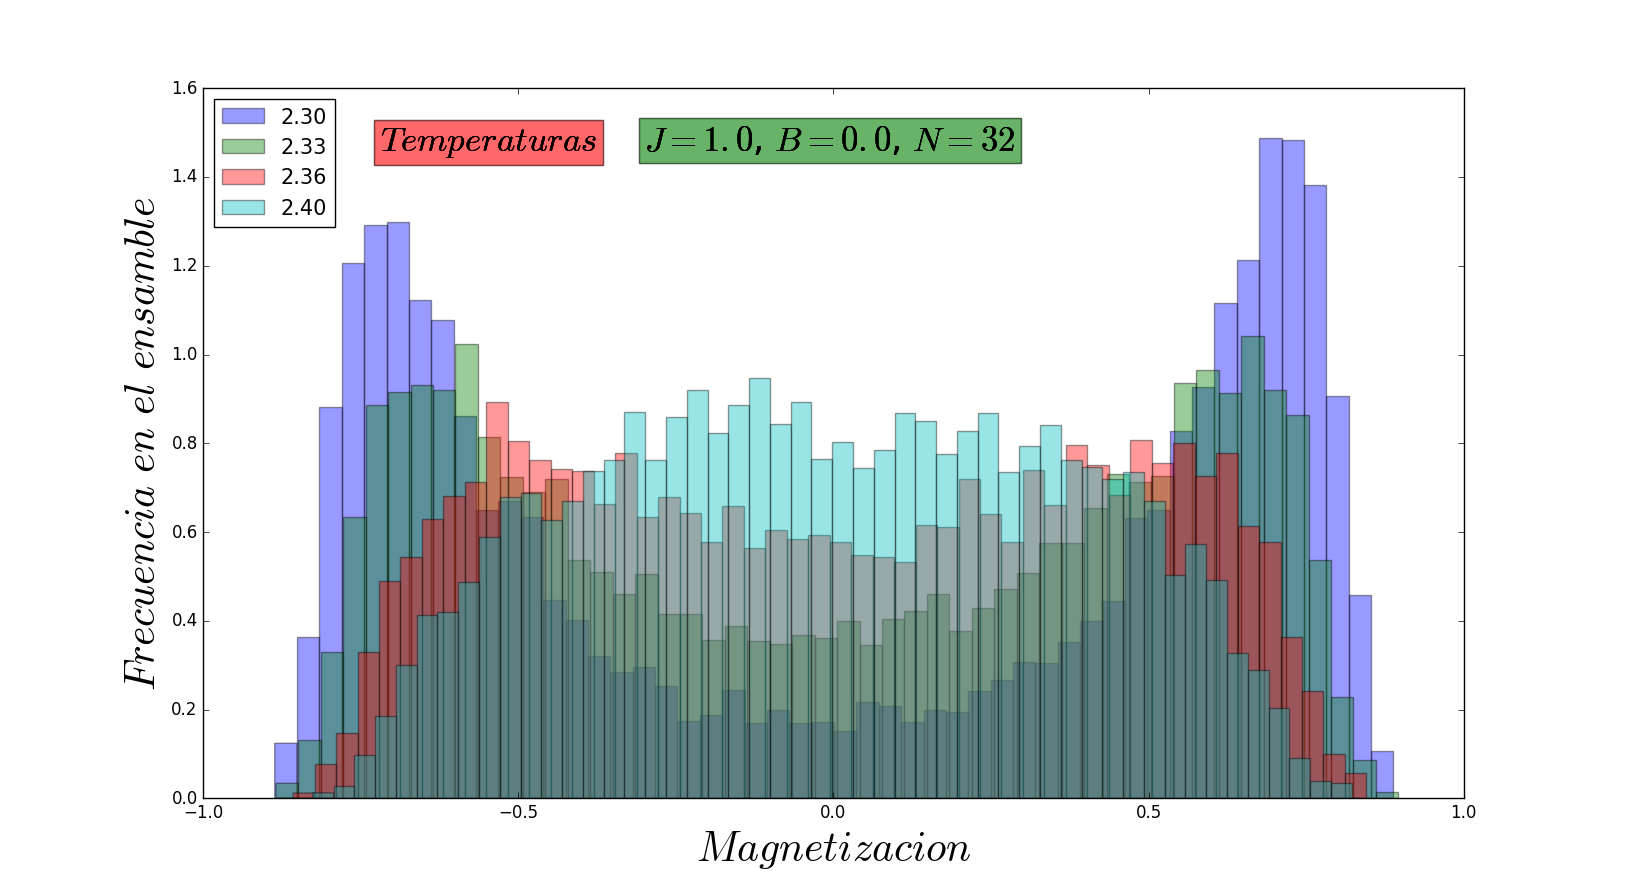
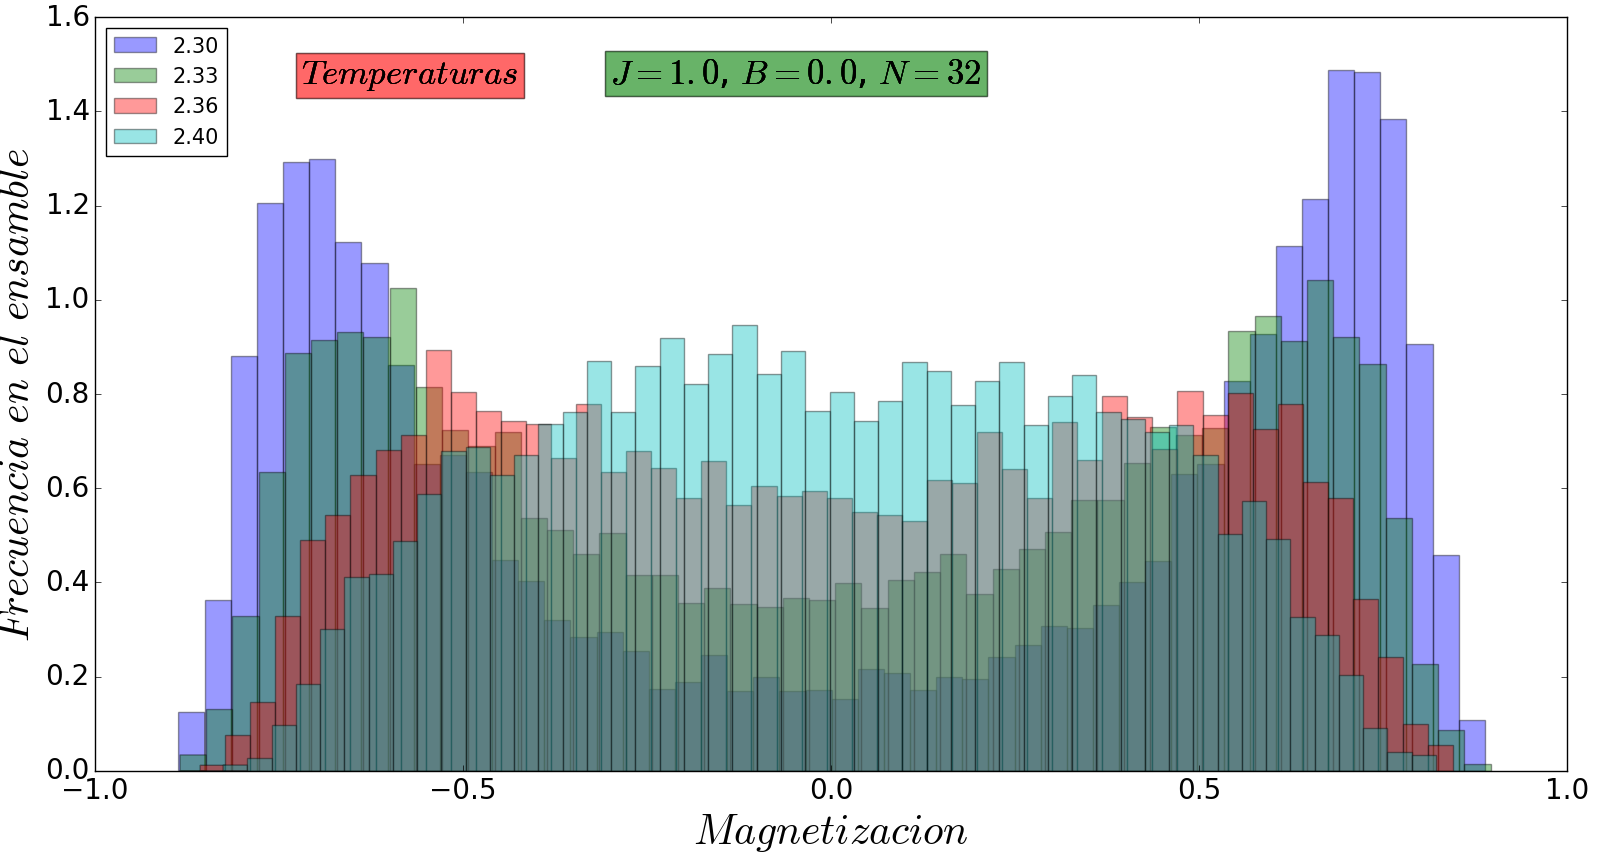
Arreglo de long ints en el tamaño para el calculo de dispersiones

diff --git a/analysis/histogram.py b/analysis/histogram.py
@@ -58,22 +58,23 @@ for T in Tes:
 		E.append(float(inter[1])/(N*N))
 		M.append(float(inter[2])/(N*N))
 
-	#if T[:4]=='2.30' or T[:4]=='2.33' or T[:4]=='2.36' or T[:4]=='2.40':
+	if T[:4]=='2.30' or T[:4]=='2.33' or T[:4]=='2.36' or T[:4]=='2.40':
 	
-	plt.figure(1)
-	hist_E , bin_edges_E = np.histogram(E, bins=n_of_bins,normed=True)
-	centres_E = (bin_edges_E[:-1] + bin_edges_E[1:])/2.
-	plt.hist(E,bins=n_of_bins,alpha=0.4,label=T[:4],normed=True)
-	plt.xlabel('Energia')
+		plt.figure(1)
+		hist_E , bin_edges_E = np.histogram(E, bins=n_of_bins,normed=True)
+		centres_E = (bin_edges_E[:-1] + bin_edges_E[1:])/2.
+		plt.hist(E,bins=n_of_bins,alpha=0.4,label=T[:4],normed=True)
+		plt.xlabel('Energia')
 	
-	plt.figure(2)
-	hist_M , bin_edges_M = np.histogram(M, bins=n_of_bins,normed=True)
-	centres_M = (bin_edges_M[:-1] + bin_edges_M[1:])/2.
-	plt.hist(M,bins=n_of_bins,alpha=0.4,label=T[:4],normed=True)
-	plt.xlabel(r'$Magnetizacion$',fontsize=30)
-	plt.ylabel(r'$Frecuencia$'+' '+r'$en$'+' '+r'$el$'+' '+r'$ensamble$',fontsize=30)	
-	plt.text(-0.72, 1.46, r'$Temperaturas$', fontsize=25, bbox=dict(facecolor='r', alpha=0.2)) 
-	plt.text(-0.3, 1.46, r'$J=1.0$, $B=0.0$, $N=32$', fontsize=25, bbox=dict(facecolor='g', alpha=0.2))
+		plt.figure(2)
+		hist_M , bin_edges_M = np.histogram(M, bins=n_of_bins,normed=True)
+		centres_M = (bin_edges_M[:-1] + bin_edges_M[1:])/2.
+		plt.hist(M,bins=n_of_bins,alpha=0.4,label=T[:4],normed=True)
+		plt.xlabel(r'$Magnetizacion$',fontsize=30)
+		plt.ylabel(r'$Frecuencia$'+' '+r'$en$'+' '+r'$el$'+' '+r'$ensamble$',fontsize=30)	
+		plt.text(-0.72, 1.46, r'$Temperaturas$', fontsize=25, bbox=dict(facecolor='r', alpha=0.2)) 
+		plt.text(-0.3, 1.46, r'$J=1.0$, $B=0.0$, $N=32$', fontsize=25, bbox=dict(facecolor='g', alpha=0.2))
+		plt.tick_params(axis='both', which='major', labelsize=20)
 
 	Ms.append(M)
 	
@@ -101,7 +102,7 @@ plt.show()
 #Guess [ a , b , mu , sg ]
 
 print(len(Magnets))
-j = 2
+j = 6
 
 guess = [1.2,1.1,-0.6,0.6]
 
@@ -116,13 +117,14 @@ yfit = bimod(xfit, *popt)
 
 print(popt)
 
-plt.plot(xfit,yfit,'r')
-plt.errorbar(xdata_M,ydata_M,yerr=errdata_M,fmt='bo',label = 'Temperatura '+Tes[j][:4])
+plt.plot(xfit,yfit,'r',linewidth=5)
+plt.errorbar(xdata_M,ydata_M,yerr=errdata_M,fmt='bo',label = 'T '+Tes[j][:4], markersize=10)
 
 plt.xlabel(r'$Magnetizacion$',fontsize=30)
-plt.ylabel(r'$Frecuencia$'+' '+r'$en$'+' '+r'$el$'+' '+r'$ensamble$',fontsize=30)	
+plt.ylabel(r'$Frecuencia$'+' '+r'$en$'+' '+r'$el$'+' '+r'$ensamble$',fontsize=30)
+plt.tick_params(axis='both', which='major', labelsize=20)	
 
-plt.legend(loc='upper left',prop={'size':15},numpoints=1)
+plt.legend(loc='upper left',prop={'size':25},numpoints=1)
 plt.show()
 
 
@@ -140,12 +142,14 @@ plt.plot(Tem,menM,'ro')
 plt.plot(Tem,menM,'r')
 plt.ylabel(r'$Magnetizacion$',fontsize=30)
 plt.xlabel(r'$Temperatura$',fontsize=30)
+plt.tick_params(axis='both', which='major', labelsize=20)
 plt.show()
 
 plt.plot(Tem,chi,'go')
 plt.plot(Tem,chi,'g')
 plt.ylabel(r'$Susceptibilidad$',fontsize=30)
 plt.xlabel(r'$Temperatura$',fontsize=30)
+plt.tick_params(axis='both', which='major', labelsize=20)
 plt.show()
 
 

diff --git a/analysis/MET.py b/analysis/MET.py
@@ -51,23 +51,40 @@ for s in sizes:
 
 	#f, axarr = plt.subplots(2, sharex=True)
 	axarr[0].errorbar(T,M,yerr=Merr,fmt='o')
-	axarr[0].set_ylabel('Magnetizacion')
+	#axarr[0].plot(T,M,'r')
+	#axarr[0].set_ylabel('Magnetizacion')
+	axarr[0].tick_params(axis='both', which='major', labelsize=20)
+	axarr[0].text(1.08, 0.0, r'$Magnetizacion$', fontsize=25, bbox=dict(facecolor='r', alpha=0.2))
+ 
 
-	axarr[1].errorbar(T,E,yerr=Eerr,fmt='o')
-	axarr[1].set_ylabel('Energia')
-	axarr[1].set_xlabel('Temperatura')
+	axarr[1].errorbar(T,E,yerr=Eerr,fmt='o',label='N '+s)
+	#axarr[1].plot(T,E,'b')
+	#axarr[1].set_ylabel('Energia')
+	axarr[1].set_xlabel(r'$Temperatura$',fontsize=30)
+	axarr[1].tick_params(axis='both', which='major', labelsize=20)
+	axarr[1].text(1.08, -1.0, r'$Energia$', fontsize=25, bbox=dict(facecolor='b', alpha=0.2)) 
+	axarr[1].legend(loc='lower right',prop={'size':15}, numpoints=1)
 
 	
 	plt.figure(1)
 	#g, bxarr = plt.subplots(2, sharex=True)
-	bxarr[0].plot(T,susc,'o')
-	bxarr[0].set_ylabel('Susceptibilidad')
+	bxarr[0].plot(T,susc,'o',label='N '+s)
+	#bxarr[0].plot(T,susc,'g',label='N '+s)
+	#bxarr[0].set_ylabel('Susceptibilidad')
+	bxarr[0].text(1.03, 0.42, r'$Susceptibilidad$', fontsize=25, bbox=dict(facecolor='g', alpha=0.2)) 
+	bxarr[0].legend(loc='lower right',prop={'size':15}, numpoints=1)
+	bxarr[0].set_yscale('log')
+	bxarr[0].tick_params(axis='both', which='major', labelsize=20)
 
-	bxarr[1].plot(T,cv,'*')
-	bxarr[1].set_xlabel('Temperatura')
-	bxarr[1].set_ylabel('Calor especifico')
+	bxarr[1].plot(T,cv,'o')
+	#bxarr[1].plot(T,cv,'b')
+	bxarr[1].text(1.03, 0.012, r'$Calor$'+' '+ r'$especifico$', fontsize=25, bbox=dict(facecolor='r', alpha=0.2)) 
+	bxarr[1].set_xlabel(r'$Temperatura$',fontsize=30)
+	#bxarr[1].set_ylabel('Calor especifico')
+	bxarr[1].tick_params(axis='both', which='major', labelsize=20)
+	bxarr[1].set_yscale('log')
 	
-
+#plt.legend()
 plt.show()
 
 

diff --git a/src/temp_ramp.c b/src/temp_ramp.c
@@ -18,13 +18,13 @@ int main(int argc, char **argv) {
   
   float prob = 0.5;
   int niter;
-  int n;
+  long int n;
   float Tini, Tfin;
   float J,B;
   int nOfTemps;
 
   if (argc==8){
-    sscanf(argv[1],"%d",&n);
+    sscanf(argv[1],"%ld",&n);
     sscanf(argv[2],"%f",&Tini);
     sscanf(argv[3],"%f",&Tfin);
     sscanf(argv[4],"%f",&J);
@@ -54,10 +54,10 @@ int main(int argc, char **argv) {
 
   //Data writing
   char filename[100];
-  sprintf(filename,"../results/EMT/MEvsTN%d.txt",n);
+  sprintf(filename,"../results/EMT/MEvsTN%ld.txt",n);
   FILE *fp;
   fp = fopen(filename,"w");
-  fprintf(fp,"Sim Data: Program: %s , Size: %d , Tini: %f , Tfin: %f , J: %f , B: %f , niter: %d , nOfTemps: %d\n",argv[0],n,Tini,Tfin,J,B,niter,nOfTemps);
+  fprintf(fp,"Sim Data: Program: %s , Size: %ld , Tini: %f , Tfin: %f , J: %f , B: %f , niter: %d , nOfTemps: %d\n",argv[0],n,Tini,Tfin,J,B,niter,nOfTemps);
   fprintf(fp,"T\t\t\t<E>\t\t\t<M>\t\t\tV(E)\t\t\tV(M)\n");
 
   //Temperature Loop
@@ -105,8 +105,8 @@ int main(int argc, char **argv) {
       if(i%decorr==0){
 	Eprom = Eprom + energy/(n*n);
 	Mprom = Mprom + (double)magnet/(n*n);
-	Esqr = Esqr + (energy*energy)/(n*n*n*n);
-	Msqr = Msqr + ((double)magnet*magnet)/(n*n*n*n);
+	Esqr = Esqr + (energy*energy)/(double)(n*n*n*n);
+	Msqr = Msqr + ((double)magnet*magnet)/(double)(n*n*n*n);
 	dataPoints = dataPoints + 1;
       }
     }

diff --git a/src/histogram.c b/src/histogram.c
@@ -10,14 +10,14 @@ int main(int argc, char **argv) {
   
   float prob = 0.5;
   long int niter;
-  int n;
+  long int n;
   float Tini,Tfin;
   float J,B;
   long int writeFreq;
   int nOfTemps;
 
   if (argc==9){
-    sscanf(argv[1],"%d",&n);
+    sscanf(argv[1],"%ld",&n);
     sscanf(argv[2],"%f",&Tini);
     sscanf(argv[3],"%f",&Tfin);
     sscanf(argv[4],"%f",&J);
@@ -49,7 +49,7 @@ int main(int argc, char **argv) {
 
   //Data writing
   FILE *fp = fopen("../results/HISTOGRAM/MEvsT.txt","w");
-  fprintf(fp,"Sim Data: Program: %s , Size: %d , Tini: %f , Tfin: %f , J: %f , B: %f , niter: %ld , nOfTemps: %d , writeFreq: %ld\n",argv[0],n,Tini,Tfin,J,B,niter,nOfTemps,writeFreq);
+  fprintf(fp,"Sim Data: Program: %s , Size: %ld , Tini: %f , Tfin: %f , J: %f , B: %f , niter: %ld , nOfTemps: %d , writeFreq: %ld\n",argv[0],n,Tini,Tfin,J,B,niter,nOfTemps,writeFreq);
   fprintf(fp,"T\t\t\t<E>\t\t\t<M>\t\t\tV(E)\t\t\tV(M)\n");
 
 

diff --git a/analysis/aucorr.py b/analysis/aucorr.py
@@ -41,13 +41,21 @@ for a in Tes:
 	plt.show()
 	'''
 	plt.figure(3)
-	plt.plot(taus,aucM)
-	plt.xlabel('Tau')
-	plt.ylabel('Aucorr Magnetization')
+	plt.plot(taus,aucM,label='T '+a,linewidth=2)
+	plt.xlabel(r'$\tau$',fontsize=30)
+	plt.ylabel(r'$Autocorrelacion$',fontsize=30)
+	plt.legend(loc='upper right',prop={'size':15})
+	plt.tick_params(axis='both', which='major', labelsize=20)
+	plt.text(6200.0, 0.75, r'$Magnetizacion$', fontsize=25, bbox=dict(facecolor='r', alpha=0.2)) 
+
 	plt.figure(4)
-	plt.plot(taus,aucE)
-	plt.xlabel('Tau')
-	plt.ylabel('Aucorr Energy')
+	plt.plot(taus,aucE,label='T '+a,linewidth=2)
+	plt.xlabel(r'$\tau$',fontsize=30)
+	plt.ylabel(r'$Autocorrelacion$',fontsize=30)
+	plt.text(5000.0, 0.9, r'$Energia$', fontsize=25, bbox=dict(facecolor='b', alpha=0.2)) 
+	plt.tick_params(axis='both', which='major', labelsize=20)
+	plt.legend(loc='upper right',prop={'size':15})
+
 
 plt.show()
 
